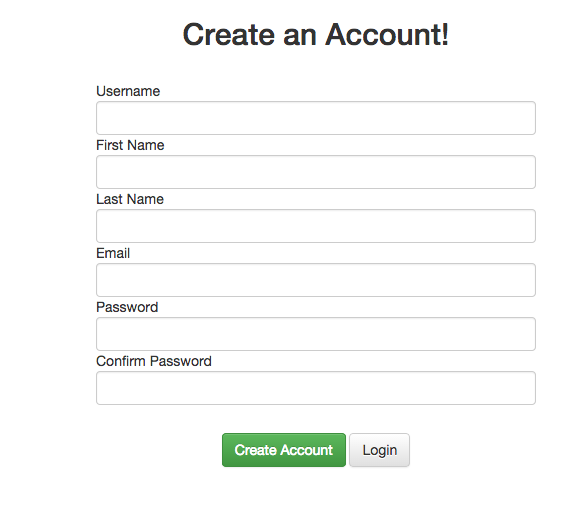
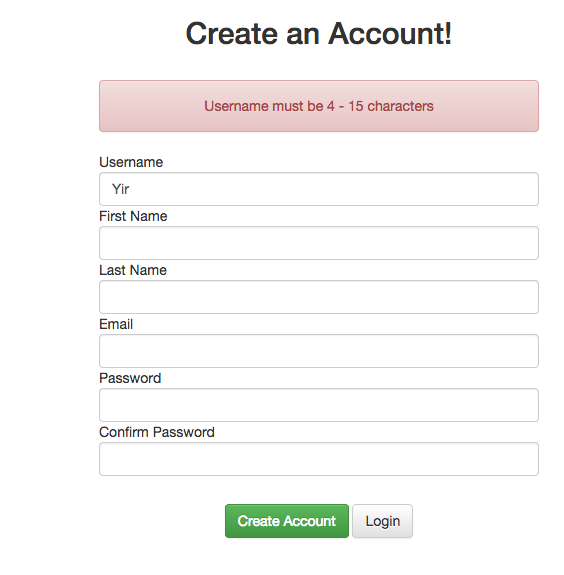
Made some improvements by refactoring and adding better security

Changed region(s): [[0.1507, 0.124, 0.9645, 0.7752], [0.3617, 0.8372, 0.7535, 0.9612], [0.3014, 0.031, 0.8138, 0.093]]

diff --git a/model/config.php b/model/config.php
@@ -1,52 +1,75 @@
 <?php
-function connect(){
-  try {
-  $dbh = new PDO('mysql:dbname=base;host=localhost','root','root');
-  return $dbh;
-  }
-  catch(PDOExeption $e){
-  echo 'ERROR', $e->getMessage();
-  }
-}
 
-function checkValidLogin($username,$password){
-  $password = md5($password);
-  $result = connect()->prepare("SELECT username,password FROM users WHERE username=:username AND password=:password");
-  $result->bindParam('username',$username);
-  $result->bindParam('password',$password);
-  $result->execute();
-  $rowsfound = $result->fetch(PDO::FETCH_NUM);
+class config{
 
-  if ($rowsfound > 0){
-    return true;
-  }else {
-    return false;
+  function connect(){
+    try {
+    $dbh = new PDO('mysql:dbname=base;host=localhost','root','root');
+    return $dbh;
+    }
+    catch(PDOExeption $e){
+    echo 'ERROR', $e->getMessage();
+    }
   }
 
-}
+  function checkValidLogin($username,$password){
+    $result = $this->connect()->prepare("SELECT password FROM users WHERE username='$username'");
+    $result->execute();
+    $hash = $result->fetch(PDO::FETCH_ASSOC);
+    return (password_verify($password,$hash['password']));
 
-function checkUsernameTaken($checkuser){
-
-  $check = connect()->prepare("SELECT username FROM users WHERE username=:username");
-  $check->bindParam(':username',$checkuser);
-  $check->execute();
-
-  if ($check->rowCount() > 0){
-    return true;
-  }else{
-    return false;
   }
-}
-function registerUser($username,$password,$fname,$lname,$email){
-    $password = md5($password);
-    $query = connect()->prepare("INSERT INTO users (username, password,fname,lname,email) VALUES (:username, :password, :fname, :lname, :email)");
-    $query->bindParam(':username', $username);
-    $query->bindParam(':password', $password);
-    $query->bindParam(':fname', $fname);
-    $query->bindParam(':lname', $lname);
-    $query->bindParam(':email', $email);
-    if ($query->execute()){
+
+  function checkUsernameTaken($username){
+
+    $check = $this->connect()->prepare("SELECT username FROM users WHERE username='$username'");
+    $check->execute();
+
+    if ($check->rowCount() > 0){
       return true;
     }
+  }
+  function registerUser($username,$password,$fname,$lname,$email){
+      $password = password_hash($password,PASSWORD_DEFAULT);
+      $query = $this->connect()->prepare("INSERT INTO users (username, password,fname,lname,email) VALUES ('$username','$password','$fname','$lname','$email')");
+      if ($query->execute()){
+        return true;
+      }
+  }
+  function checkname($username){
+    $result = $this->connect()->prepare("SELECT fname FROM users WHERE username='$username'");
+    $result->execute();
+    $name = $result->fetch(PDO::FETCH_ASSOC);
+    return $name['fname'];
+  }
+  function aboutme($username){
+    $result = $this->connect()->prepare("SELECT about FROM users WHERE username='$username'");
+    $result->execute();
+    $about = $result->fetch(PDO::FETCH_ASSOC);
+    return $about['about'];
+
+  }
+
+  function editAbout($username,$edit){
+    $result = $this->connect()->prepare("UPDATE users SET about='$edit' WHERE username='$username'");
+    $result->execute();
+  }
+
+
+    //Static Methods
+
+  static function length($string){
+
+    return strlen($string);
+
+  }
+  static function noSpaces($tocheck){
+    if ( !preg_match('/\s/',$tocheck) && !preg_match('/[\'^£$%&*()}{@#~?><>,|=_+¬-]/', $tocheck)){
+      return true;
+    }else{
+      return false;
+    }
+  }
+
 }
  ?>

diff --git a/controller/signup.php b/controller/signup.php
@@ -1,7 +1,8 @@
 <?php
+session_start();
 if (isset($_POST['create'])){
 
-  require '../model/config.php';
+  require_once '../model/config.php';
 
 
   $username = $_POST['username'];
@@ -11,30 +12,16 @@ if (isset($_POST['create'])){
   $lname = $_POST['lname'];
   $email = $_POST['email'];
 
-  $userlen = strlen($username);
-  $passlen = strlen($password);
-  $fnamelen = strlen($fname);
-  $lnamelen = strlen($lname);
-  $emaillen = strlen($email);
+  $config = new config();
 
-  function noSpaces($tocheck){
-    if ( !preg_match('/\s/',$tocheck) && !preg_match('/[\'^£$%&*()}{@#~?><>,|=_+¬-]/', $tocheck)){
-      return true;
-  }else{
-    return false;
-  }
-  }
-
-
-
-  if (noSpaces($username)==true){
-    if ($userlen >= 4 && $userlen <= 15){
-      if (checkUsernameTaken($username) == false){
-        if (noSpaces($fname)==true && noSpaces($lname)==true){
-          if ($fnamelen > 2 && $fnamelen < 15){
-            if ($lnamelen > 2 && $lnamelen < 15){
-              if ($emaillen > 8){
-                if ($passlen > 6){
+  if (config::noSpaces($username)==true){
+    if (config::length($username) >= 4 && config::length($username) <= 15){
+      if ($config->checkUsernameTaken($username) == false){
+        if (config::noSpaces($fname)==true && config::noSpaces($lname)==true){
+          if (config::length($fname) > 2 && config::length($fname) < 15){
+            if (config::length($lname) > 2 && config::length($lname) < 15){
+              if (config::length($email) > 8){
+                if (config::length($password) > 6){
                   if ($password === $password2){
                     $formcomplete = true;
                   }else{
@@ -64,15 +51,15 @@ if (isset($_POST['create'])){
   }else {
     $status = 'Username can\'t have spaces or special characters($%&*>#)';
   }
-
   if (!empty($formcomplete) && $formcomplete === true){
-    if(registerUser($username,$password,$fname,$lname,$email)==true){
-    header("Location: ../controller/index.php");
+    if($config->registerUser($username,$password,$fname,$lname,$email)==true){
+    $_SESSION['username'] = $username;
+    header('Location:admincontroller');
   }else{
       $status ='Database Error, Please try again later..';
     }
   }
 }
 
-include '../view/register.php'
+include '../view/register.php';
 ?>

diff --git a/view/aboutme.php b/view/aboutme.php
@@ -1,0 +1,26 @@
+<html>
+<head>
+  <title>About Me</title>
+  <link rel="stylesheet" href="https://maxcdn.bootstrapcdn.com/bootstrap/3.3.1/css/bootstrap.min.css">
+  <!-- Optional theme -->
+  <link rel="stylesheet" href="https://maxcdn.bootstrapcdn.com/bootstrap/3.3.1/css/bootstrap-theme.min.css">
+
+</head>
+  <body>
+    <div class="container">
+
+    <form action="" method="post" >
+      <div class="form-group">
+        <div class="col-sm-offset-1 col-sm-10">
+          <textarea type="text" class="form-control" rows="5"name="text" autofocus><?= isset($oldabout) ? ($oldabout) : ''?></textarea>
+        </div>
+      </div>
+      <div class="col-sm-offset-5 col-sm-10">
+        <br>
+        <a href="admincontroller.php" class="btn btn-default">Cancle</a>
+        <input type="submit" name="submit" class="btn btn-success">
+      </div>
+    </form>
+  </div>
+  </body>
+</html>

diff --git a/view/home.php b/view/home.php
@@ -14,7 +14,7 @@
         <div class="form-group">
           <label for="inputEmail3" class="col-sm-4 control-label">Username</label>
           <div class="col-sm-5">
-            <input type="text" class="form-control" name="username" placeholder="Username"value="<?= isset($username) ? ($username) : ''?>">
+            <input type="text" autofocus class="form-control" name="username" placeholder="Username"value="<?= isset($username) ? ($username) : ''?>">
           </div>
         </div>
         <div class="form-group">
@@ -25,7 +25,7 @@
         </div>
         <div class="form-group">
           <div class="col-sm-offset-5 col-sm-10">
-            <a href="signup.php" class="btn btn-default">Register</a>
+            <a href="signup" class="btn btn-default">Register</a>
             <input type="submit" name="login" class="btn btn-success" value="Sign in">
           </div>
 

diff --git a/controller/Home.php b/controller/Home.php
@@ -1,0 +1,29 @@
+<?php
+session_start();
+require_once '../model/config.php';
+
+if (!empty($_SESSION)){
+  header('Location:admincontroller');
+  exit();
+}
+
+
+  if (isset($_POST['login'])) {
+    $username = $_POST['username'];
+    $password = $_POST['password'];
+    $config = new config();
+    if ($config->checkValidLogin($username, $password)){
+      $_SESSION['username'] = $username;
+      header('Location:admincontroller');
+      exit();
+    }else {
+        $status1 = 'Invalid Username or Password';
+      }
+
+   }
+
+   require '../view/home.php';
+
+
+
+ ?>

diff --git a/some.php b/some.php
@@ -1,0 +1,2 @@
+
+  <object bgcolor="#000000" data="http://www.twitch.tv/swflibs/TwitchPlayer.swf" height="378" id="clip_embed_player_flash" type="application/x-shockwave-flash" width="620"><param name="movie"  /><param name="allowScriptAccess" value="always" /><param name="allowNetworking" value="all" /><param name="allowFullScreen" value="true" /><param name="flashvars" value="channel=timothylol&auto_play=false&start_volume=25&videoId=a604461403&device_id=f88b7af52e5ad566" /></object><br />

diff --git a/view/admin.php b/view/admin.php
@@ -10,8 +10,14 @@
   <body>
 
     <div class="container">
-      <h2>Hello <?= $_SESSION['username']?><br/>
-      You are now logged in!</h2>
+      <h2>Hello <?= $name ?><br/>
+      You are now logged in!</h2><br><br>
+      <h3>About Me</h3><br>
+
+      <p>
+        <?= $about ?>
+      </p>
+      <a href="AboutController.php">Edit About Me</a>
 
       <h3> <a href="../view/logout.php" class="btn btn-danger">Logout</a></h3>
     </div>

diff --git a/controller/AboutController.php b/controller/AboutController.php
@@ -1,0 +1,16 @@
+<?php
+session_start();
+require '../model/config.php';
+if(empty($_SESSION)){
+  header('Location:HomeController.php');
+}
+$config = new config();
+$username = $_SESSION['username'];
+$oldabout = $config->aboutme($username);
+if (isset($_POST['submit'])){
+  $about = $_POST['text'];
+  $config->editAbout($username,$about);
+  header('Location:admincontroller.php');
+}
+
+require '../view/aboutme.php';

diff --git a/view/register.php b/view/register.php
@@ -22,7 +22,7 @@
       Confirm Password <input class="form-control" type="password" name="password2"><br>
       <div style="text-align:center">
       <input class="btn btn-success navbar-btn" type="submit" name="create" value="Create Account">
-      <a href="index.php" class="btn btn-default">Login</a>
+      <a href="../controller" class="btn btn-default">Login</a>
     </div>
   </form>
  </div>

diff --git a/controller/admincontroller.php b/controller/admincontroller.php
@@ -1,8 +1,14 @@
 <?php
 session_start();
+require_once '../model/config.php';
 if (!empty($_SESSION)){
+   $username = $_SESSION['username'];
+   $config = new config();
+   $name = $config->checkname($username);
+   $about = $config->aboutme($username);
+
   include '../view/admin.php';
 }else{
-  header('Location:index.php');
+  header('Location:HomeController.php');
 }
 ?>

diff --git a/view/logout.php b/view/logout.php
@@ -1,7 +1,7 @@
 <?php
 session_start();
 session_destroy();
-header('Location:../controller/index.php');
+header('Location:../controller/Home);
 
 
 
